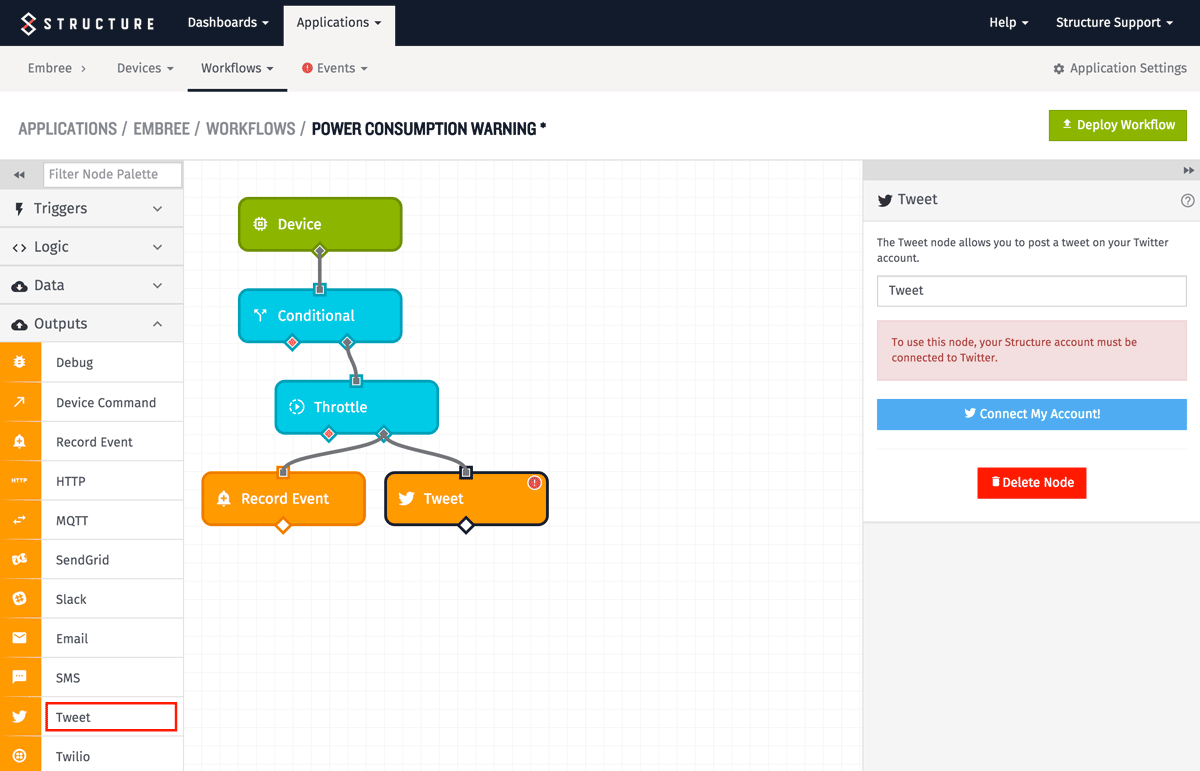
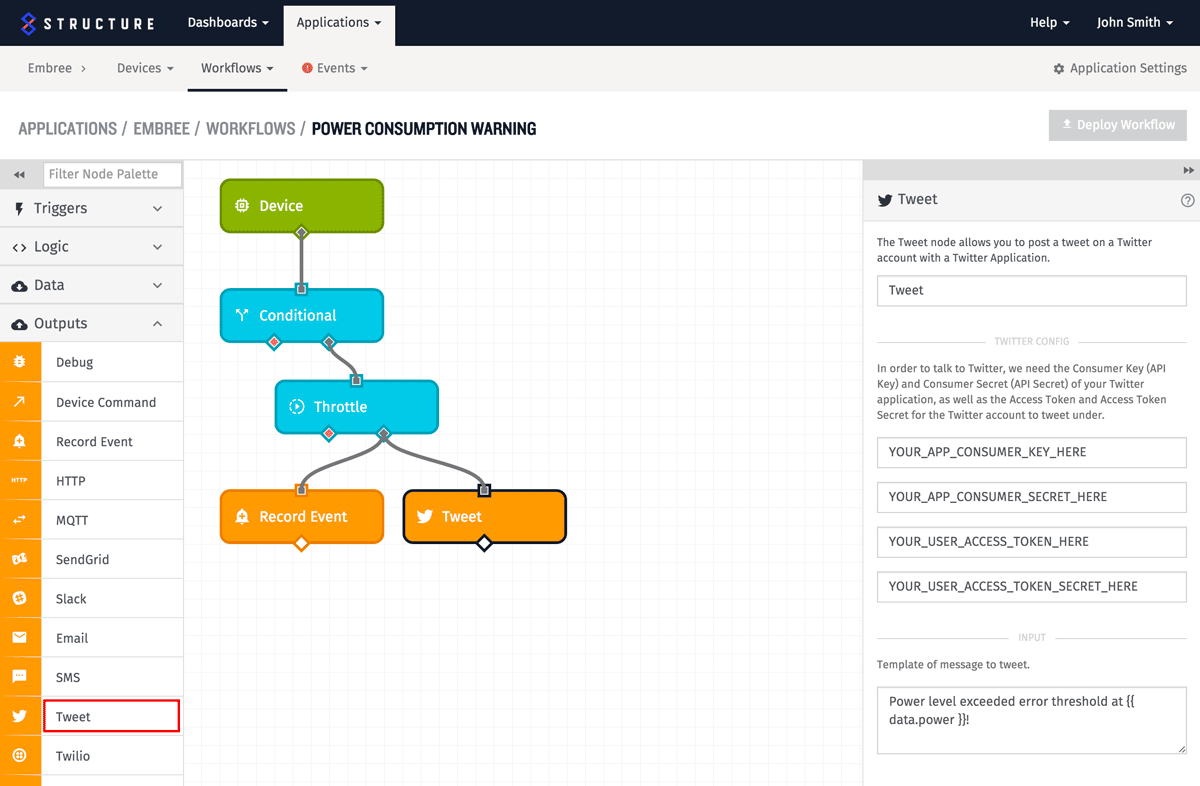
update tweet node docs to reflect using user provided twitter app

diff --git a/docs/workflows/outputs/tweet.md b/docs/workflows/outputs/tweet.md
@@ -1,21 +1,25 @@
 # Tweet Node
 
-The Tweet node allows a workflow to post a tweet to a linked [Twitter](https://twitter.com/) account.
+The Tweet node allows a workflow to post a tweet using the provided [Twitter](https://twitter.com/) application and account.
 
 ![Tweet Node](/images/workflows/outputs/tweet-node.png "Tweet Node")
 
-## Linking To Twitter
+## Configuration
 
-For the tweet node to work, the Structure account that owns the workflow must be linked to Twitter.  This is due to the fact that Twitter uses Oauth to provide API access instead of API Keys - so it is not possible to just configure a Twitter node with API keys as Structure does with nodes such as [SendGrid](/workflows/outputs/sendgrid).
+For the tweet node to work, Structure needs a number of different Twitter authorization keys.  This is due to the fact that the Twitter API requires a [Twitter Application](https://apps.twitter.com/app/new) in order to interact with the Twitter API.  The first two values that Structure needs are the `Consumer Key` and `Consumer Secret` of the Twitter application that Structure should use.  These values can be found at the top of the "Keys And Access Tokens" tab in the settings of a Twitter application.
 
-If no Twitter account has been linked, the configuration for the tweet node will just prompt to link an account:
+![Tweet Node - Consumer Key And Secret](/images/workflows/outputs/tweet-node-consumer.png "Tweet Node - Consumer Key And Secret")
 
-![Tweet Node - No Account](/images/workflows/outputs/tweet-node-no-account.png "Tweet Node - No Account")
+Above, the tweet node is configured with `YOUR_APP_CONSUMER_KEY_HERE` as the Consumer Key and `YOUR_APP_CONSUMER_SECRET_HERE` as the Consumer Secret.
 
-To link with Twitter, follow the link in the tweet node configuration, or go to "Account Links" under "Account Settings".  See the [Account Links](/user-accounts/overview/#account-links) documentation for more information.
+Next Structure needs the tokens specific to the user account that the tweets will go out under.  These are the `Access Token` and `Access Token Secret`, and are specifically tied to the Twitter Application configured above.  These values can be found at the bottom of the "Keys And Access Tokens" tab in the settings of a Twitter application, under the "Your Access Token" section.
 
-Once linked with Twitter, the tweet node will show what account it will tweet under, and will have a text area for configuring the message to tweet.  The message supports payload templating - but remember to keep the message under the Twitter character limit, otherwise the tweet will be rejected.
+![Tweet Node - User Token](/images/workflows/outputs/tweet-node-user.png "Tweet Node - User Token")
 
-![Tweet Node - Linked Account](/images/workflows/outputs/tweet-node-linked-account.png "Tweet Node - Linked Account")
+Above, the tweet node is configured with `YOUR_USER_ACCESS_TOKEN_HERE` as the Access Token and `YOUR_USER_ACCESS_TOKEN_SECRET_HERE` as the Access Token Secret.
 
-In the example above, the tweet `Power level exceeded error threshold at {{ data.power }}!` (where `{{ data.power}}` will be replaced with the current value of `data.power` in the payload) will be posted to the twitter handle `@embreeEmergency`.
+Finally, now that all of those settings are configured, the actual tweet itself can be configured. The message field supports standard payload templating - but remember to keep the message under the Twitter character limit, otherwise the tweet will be rejected.
+
+![Tweet Node - Message](/images/workflows/outputs/tweet-node-message.png "Tweet Node - Message")
+
+In the example above, the tweet "Power level exceeded error threshold at {{ data.power }}!" (where `{{ data.power}}` will be replaced with the current value of `data.power` in the payload) will be posted to Twitter.

diff --git a/docs/user-accounts/overview.md b/docs/user-accounts/overview.md
@@ -48,9 +48,7 @@ To disable 2-factor authentication, navigate to the `Two Factor Auth` tab under 
 
 ## Linked Accounts
 
-Structure allows users to connect third-party accounts for use within the Structure Platform. For example to send a tweet from a workflow, you must first have a connected Twitter account.
-
-For an example on how linked accounts can be used, check out the [Tweet Workflow Node](/workflows/outputs/tweet/) documentation.
+Structure allows users to connect third-party accounts for use within the Structure Platform.
 
 ### View Linked Accounts
 
